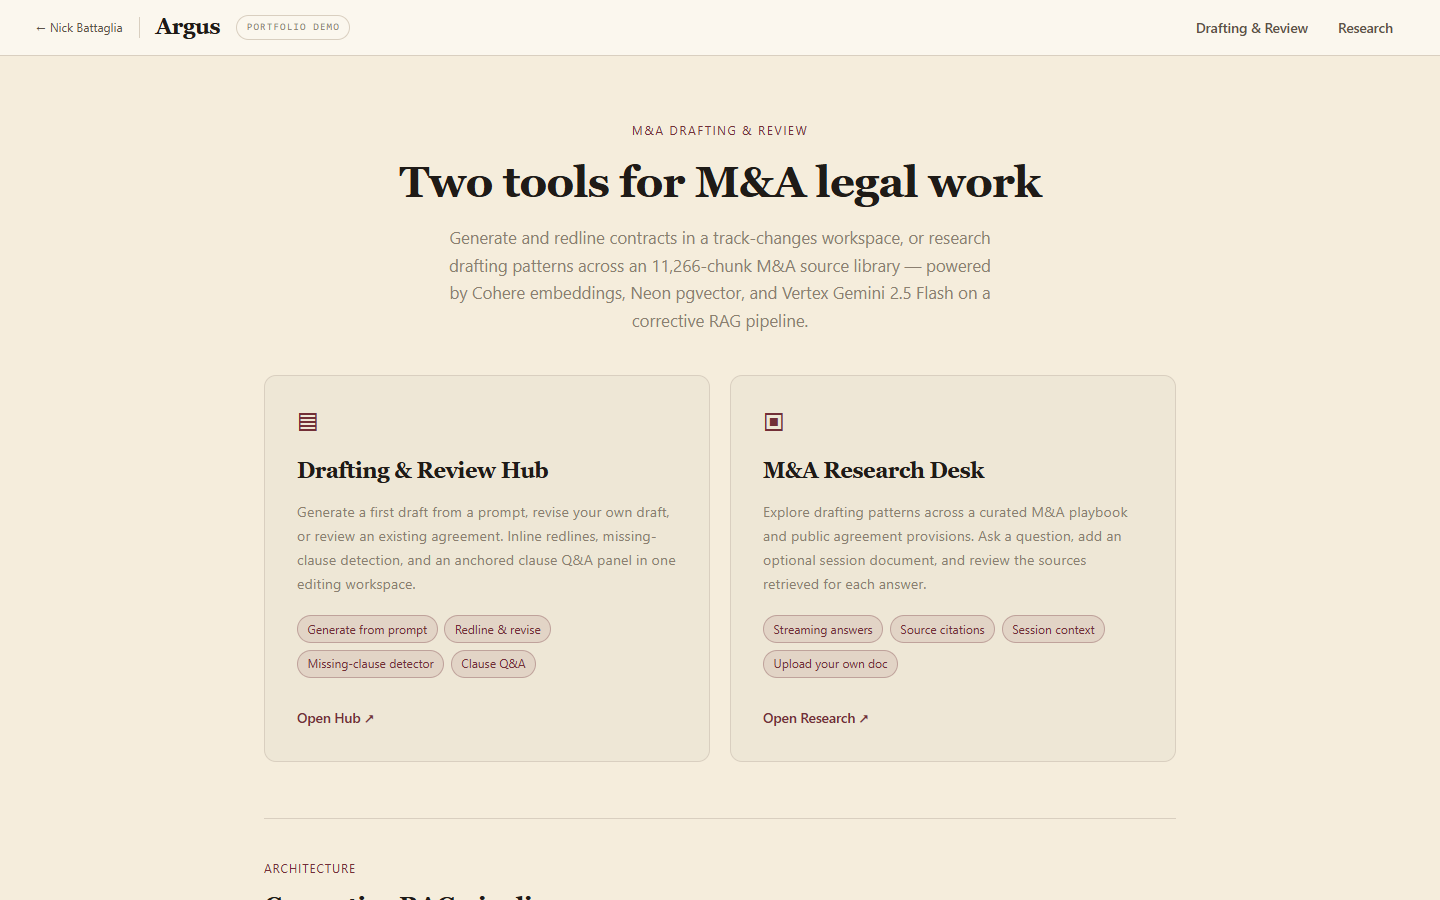
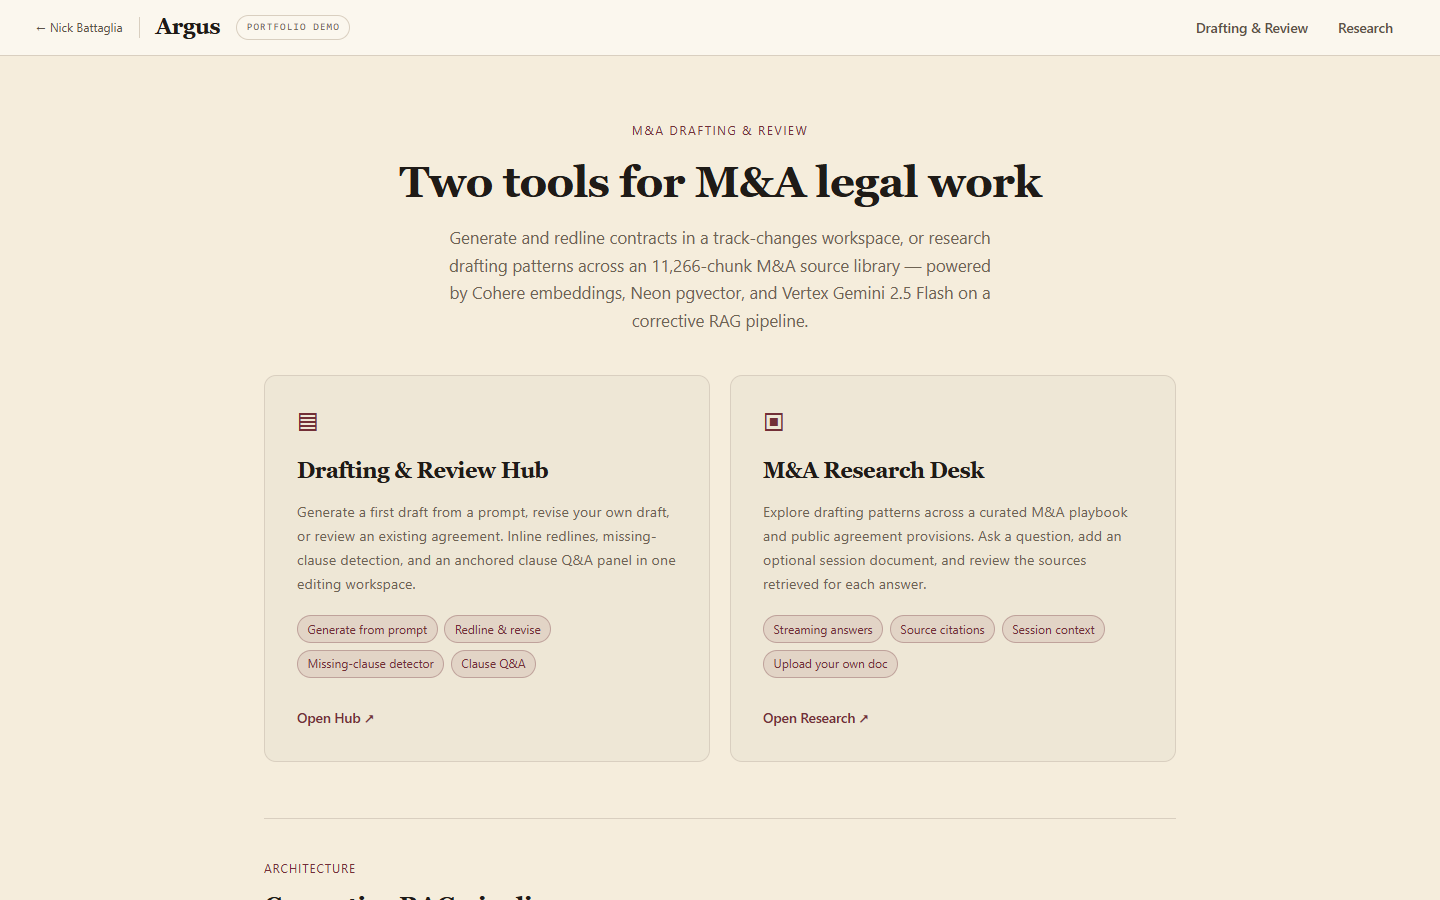
Address code-review findings: muted-text contrast and dead CSS
- tokens.css: darken --ink-faint #8B7F70 -> #6E6353. The former was ~3.4:1
  on paper and failed WCAG AA for normal text; the tokenized chat labels
  (sidebar hint, source meta, citations, empty state) had regressed from
  ~4.9:1 to that value in the prior commit. #6E6353 is >=4.7:1 on both
  paper and paper-sunken while staying clearly lighter than --ink-muted.
  Fixes the regression and improves landing/shell faint text app-wide for
  every surface that consumes the token.
- hub.css: remove the now-dead .hub-header / .hub-header nav rules
  (review.html moved to the shared .masthead).
- refresh the 1440x900 screenshots to reflect the darker muted text.

Note: hub.css literal #8B7F70 faint text and styles.css :root --muted are
unchanged (they do not consume --ink-faint); those remain a pre-existing
AA item for the later accessibility/hardening stage.

diff --git a/static/tokens.css b/static/tokens.css
@@ -29,8 +29,9 @@
   /* ── Ink ───────────────────────────────────────────────────────────────
      Warm charcoal, never pure black. */
   --ink: #1F1B17;             /* primary text */
-  --ink-muted: #5C5247;       /* secondary text */
-  --ink-faint: #8B7F70;       /* captions, hints, placeholders */
+  --ink-muted: #5C5247;       /* secondary text — 6.5:1 on paper */
+  --ink-faint: #6E6353;       /* captions, hints, placeholders — >=4.7:1 on
+                                 paper and paper-sunken (WCAG AA normal text) */
   --ink-inverse: #FBF7EE;     /* text on oxblood / dark fills */
 
   /* ── Oxblood accent ────────────────────────────────────────────────────

diff --git a/static/hub.css b/static/hub.css
@@ -29,17 +29,7 @@
   letter-spacing: -0.018em;
 }
 
-.hub-header {
-  border-bottom: 1px solid var(--border);
-  padding: 0 2rem;
-}
-
-.hub-header nav {
-  display: flex;
-  align-items: center;
-  justify-content: space-between;
-  height: 56px;
-}
+/* The page header is now the shared shell masthead (components.css). */
 
 /* ── Intake ─────────────────────────────────────────────────────────────── */
 
